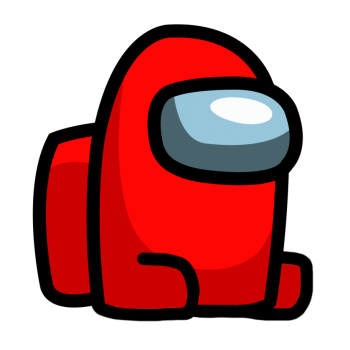
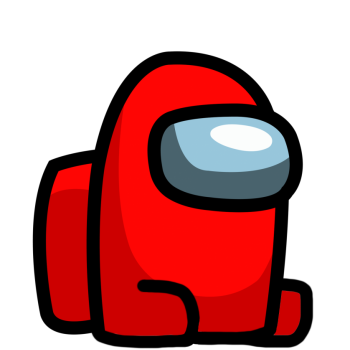
update
aggiunto l'amongo

diff --git a/src/application/application.css b/src/application/application.css
@@ -4,15 +4,14 @@
     -fx-background-position: 50%;
 	-fx-background-image: url('../resources/icons/icon_back_dark.png');
 }
-#cookie {
+.button {
 	-fx-background-size: 200px;
     -fx-background-repeat: no-repeat;
     -fx-background-position: 50%;
-	-fx-background-image: url('../resources/images/cookie_released.png');
+}
+/*#cookie {
+	-fx-background-image: url('../resources/images/amongus_released.png');
 }
 #cookiePressed {
-	-fx-background-size: 200px;
-    -fx-background-repeat: no-repeat;
-    -fx-background-position: 50%;
-	-fx-background-image: url('../resources/images/cookie_pressed.png');
-}
+	-fx-background-image: url('../resources/images/amongus_pressed.png');
+}*/

diff --git a/src/controller/ControllerGame.java b/src/controller/ControllerGame.java
@@ -3,6 +3,8 @@ package controller;
 import javafx.fxml.FXML;
 import javafx.scene.control.Button;
 import javafx.scene.control.Label;
+import javafx.scene.image.Image;
+import javafx.scene.image.ImageView;
 import javafx.scene.input.MouseEvent;
 import javafx.scene.media.Media;
 import javafx.scene.media.MediaPlayer;
@@ -13,27 +15,36 @@ import model.Counter;
 public class ControllerGame {
 	@FXML private Label labelClicks;
 	@FXML private Button buttonClick;
+	@FXML private ImageView imageViewButton;
 	
-	private MediaPlayer playerPress;
-	private MediaPlayer playerRelease;
+	private Image imageReleased;
+	private Image imagePressed;
 	
-	private Media clickPress;
-	private Media clickRelease;
+	private MediaPlayer playerReleased;
+	private MediaPlayer playerPressed;
+	
+	private Media clickPressed;
+	private Media clickReleased;
 	
 	private boolean pressed = false;
 	
 	private Counter counter;
 	
-	public ControllerGame(String soundTrackReleased, String soundTrackPressed) {
-		this.clickPress = new Media(getClass().getResource("/resources/sounds/" + soundTrackReleased).toExternalForm());
-		this.clickRelease = new Media(getClass().getResource("/resources/sounds/" + soundTrackPressed).toExternalForm());
-		this.playerPress = new MediaPlayer(clickPress);
-		this.playerRelease = new MediaPlayer(clickRelease);
+	public ControllerGame(String imageReleased, String imagePressed, String soundTrackReleased, String soundTrackPressed) {
+		this.imageReleased = new Image(getClass().getResource("/resources/images/" + imageReleased).toExternalForm());
+		this.imagePressed = new Image(getClass().getResource("/resources/images/" + imagePressed).toExternalForm());
+		
+		this.clickReleased = new Media(getClass().getResource("/resources/sounds/" + soundTrackPressed).toExternalForm());
+		this.clickPressed = new Media(getClass().getResource("/resources/sounds/" + soundTrackReleased).toExternalForm());
+		this.playerReleased = new MediaPlayer(clickReleased);
+		this.playerPressed = new MediaPlayer(clickPressed);
 		
 		this.counter = new Counter();
 	}
 	
 	public void initialize() {
+		this.imageViewButton.setImage(this.imageReleased);
+		
 		this.labelClicks.setText("" + 0);
 	}
 	
@@ -42,9 +53,9 @@ public class ControllerGame {
 		{
 			pressed = true;
 			
-			this.playerPress.seek(Duration.ZERO);
-			this.playerPress.play();
-			this.buttonClick.setId("cookiePressed");
+			this.playerPressed.seek(Duration.ZERO);
+			this.playerPressed.play();
+			this.imageViewButton.setImage(this.imagePressed);
 		}
 	}
 	
@@ -53,9 +64,9 @@ public class ControllerGame {
 		{
 			pressed = false
 					;
-			this.playerRelease.seek(Duration.ZERO);
-			this.playerRelease.play();
-			this.buttonClick.setId("cookie");
+			this.playerReleased.seek(Duration.ZERO);
+			this.playerReleased.play();
+			this.imageViewButton.setImage(this.imageReleased);
 			
 			this.counter.increase();
 			this.labelClicks.setText("" + counter.getValue());

diff --git a/src/controller/ControllerMenu.java b/src/controller/ControllerMenu.java
@@ -88,6 +88,8 @@ public class ControllerMenu {
 			
 			System.out.println(this.comboBoxSound.getValue() + "_released" + SOUNDS_FILE_TYPE);
 			ControllerGame controller = new ControllerGame(
+					this.comboBoxCookie.getValue() + "_released" + COOKIE_FILE_TYPE,
+					this.comboBoxCookie.getValue() + "_pressed" + COOKIE_FILE_TYPE,
 					this.comboBoxSound.getValue() + "_released" + SOUNDS_FILE_TYPE,
 					this.comboBoxSound.getValue() + "_pressed" + SOUNDS_FILE_TYPE);
 			loader.setController(controller);
